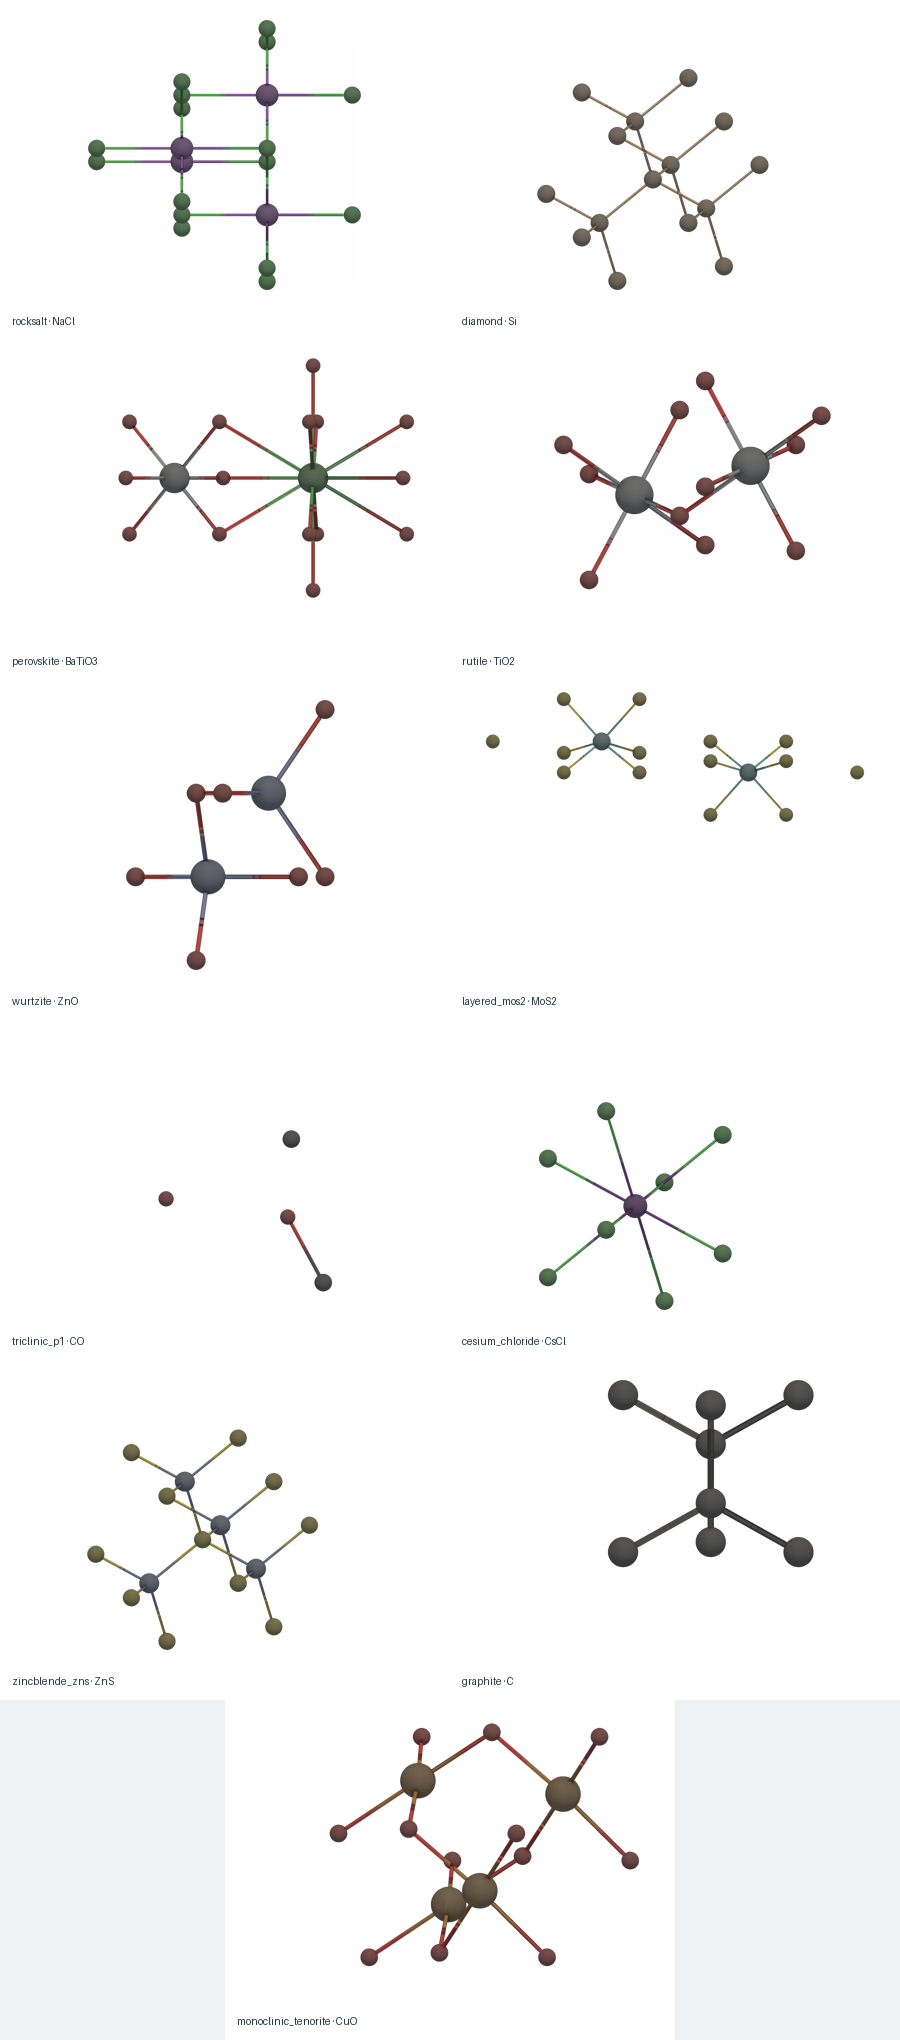
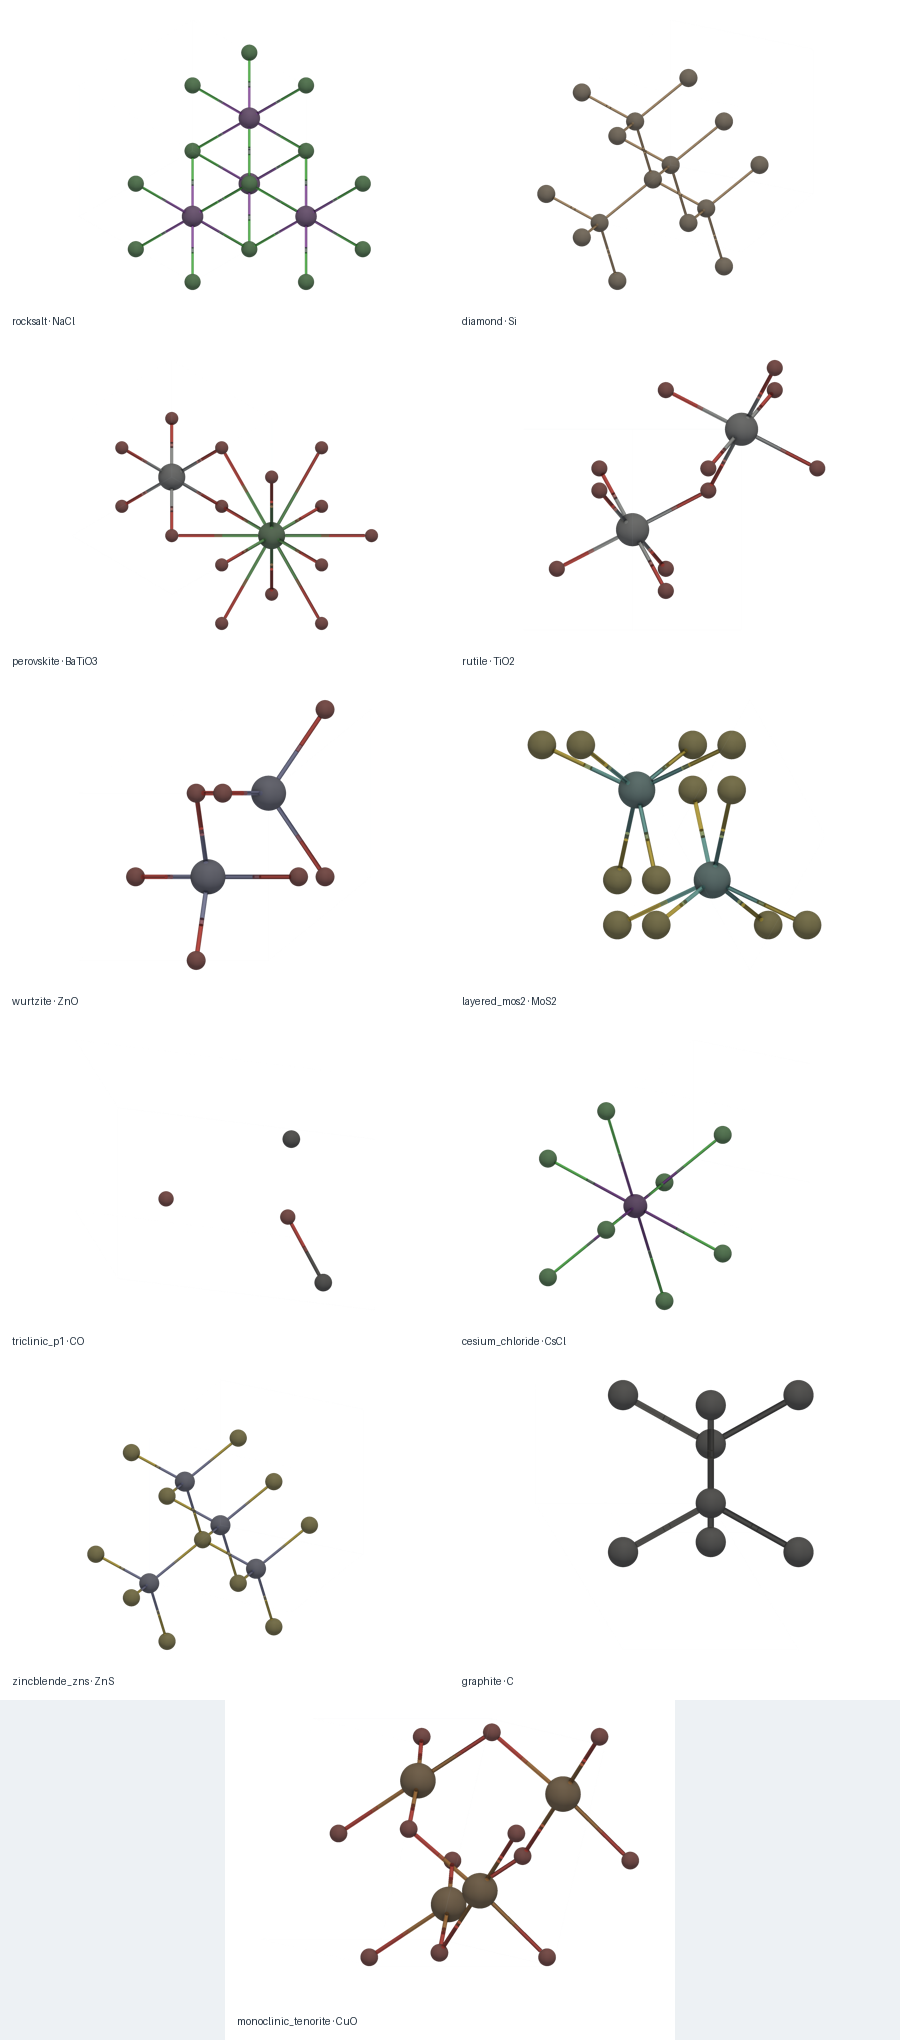
Fix periodic scene coordinates and auto-view overlap

diff --git a/crystalfig/scene/builder.py b/crystalfig/scene/builder.py
@@ -253,7 +253,8 @@ class SceneBuilder:
     ) -> Sphere:
         """Create a sphere for a site, optionally at a periodic image position."""
         site = structure.sites[site_index]
-        pos = site.cart_coords(structure.lattice) + structure.lattice.frac_to_cart(np.array(image_offset, dtype=float))
+        frac, _ = self._fold_to_unit_cell(site.frac_coords)
+        pos = structure.lattice.frac_to_cart(frac + np.asarray(image_offset, dtype=float))
         element = site.dominant_element
         color = self.palette.hex(element)
         radius = self._atom_radius(element, radius_factor)
@@ -344,12 +345,14 @@ class SceneBuilder:
 
         if mode == "connected":
             for bond in bonds:
-                if any(bond.jimage):
-                    images[(bond.j, bond.jimage)] = None
+                image = self._display_jimage(structure, bond.i, bond.j, bond.jimage)
+                if any(image):
+                    images[(bond.j, image)] = None
         elif mode == "polyhedra_complete":
             for bond in bonds:
-                if any(bond.jimage):
-                    images[(bond.j, bond.jimage)] = None
+                image = self._display_jimage(structure, bond.i, bond.j, bond.jimage)
+                if any(image):
+                    images[(bond.j, image)] = None
             for poly in polyhedra:
                 for meta in getattr(poly, "vertex_metadata", []):
                     offset = tuple(meta.get("image_offset", (0, 0, 0)))
@@ -378,6 +381,18 @@ class SceneBuilder:
         folded = frac - image
         return folded, tuple(image.tolist())
 
+    def _display_jimage(
+        self,
+        structure: CrystalStructure,
+        site_i: int,
+        site_j: int,
+        jimage: tuple[int, int, int],
+    ) -> tuple[int, int, int]:
+        """Translate a periodic bond image into the folded display cell."""
+        _, image_i = self._fold_to_unit_cell(structure.sites[site_i].frac_coords)
+        _, image_j = self._fold_to_unit_cell(structure.sites[site_j].frac_coords)
+        return tuple(jimage[axis] + image_j[axis] - image_i[axis] for axis in range(3))
+
     def _cell_complete_images(
         self,
         structure: CrystalStructure,
@@ -392,7 +407,7 @@ class SceneBuilder:
         images: dict[tuple[int, tuple[int, int, int]], None] = {}
         tol = 1e-6
         for i, site in enumerate(structure.sites):
-            frac = site.frac_coords
+            frac, _ = self._fold_to_unit_cell(site.frac_coords)
             ranges = []
             for f in frac:
                 f = float(f) % 1.0
@@ -420,20 +435,21 @@ class SceneBuilder:
         for bond_index, bond in enumerate(bonds):
             site_i = structure.sites[bond.i]
             site_j = structure.sites[bond.j]
-            start = site_i.cart_coords(structure.lattice)
+            image_offset = self._display_jimage(structure, bond.i, bond.j, bond.jimage)
+            frac_i, _ = self._fold_to_unit_cell(site_i.frac_coords)
+            frac_j, _ = self._fold_to_unit_cell(site_j.frac_coords)
+            start = structure.lattice.frac_to_cart(frac_i)
 
             # In cell_complete mode, only draw bonds whose partner lies inside or
             # on the boundary of the displayed [0,1]^3 cell.  This prevents bonds
             # from dangling at periodic images that have no displayed atom.
             if self.options.display_boundary == "cell_complete":
-                partner_frac = site_j.frac_coords + np.array(bond.jimage, dtype=float)
+                partner_frac = frac_j + np.array(image_offset, dtype=float)
                 if not all(-tol <= f <= 1.0 + tol for f in partner_frac):
                     continue
-                end = site_j.cart_coords(structure.lattice) + structure.lattice.frac_to_cart(np.array(bond.jimage))
-                image_offset = bond.jimage
+                end = structure.lattice.frac_to_cart(partner_frac)
             else:
-                end = site_j.cart_coords(structure.lattice) + structure.lattice.frac_to_cart(np.array(bond.jimage))
-                image_offset = bond.jimage
+                end = structure.lattice.frac_to_cart(frac_j + np.array(image_offset, dtype=float))
 
             color = self._bond_color(bond)
             width = self._bond_width(bond)
@@ -507,7 +523,8 @@ class SceneBuilder:
 
             for center_idx in centers:
                 center_site = structure.sites[center_idx]
-                center_pos = center_site.cart_coords(structure.lattice)
+                center_frac, _ = self._fold_to_unit_cell(center_site.frac_coords)
+                center_pos = structure.lattice.frac_to_cart(center_frac)
                 nbrs = adjacency.get(center_idx, [])
                 if not nbrs:
                     continue
@@ -515,11 +532,13 @@ class SceneBuilder:
                 vertex_indices = []
                 vertex_metadata = []
                 for j, jimage in nbrs:
-                    offset = np.array(jimage, dtype=float)
-                    vertex_frac = structure.sites[j].frac_coords + offset
+                    display_jimage = self._display_jimage(structure, center_idx, j, jimage)
+                    neighbor_frac, _ = self._fold_to_unit_cell(structure.sites[j].frac_coords)
+                    offset = np.array(display_jimage, dtype=float)
+                    vertex_frac = neighbor_frac + offset
                     vertex_positions.append(structure.lattice.frac_to_cart(vertex_frac))
                     vertex_indices.append(j)
-                    vertex_metadata.append({"site_index": j, "image_offset": jimage})
+                    vertex_metadata.append({"site_index": j, "image_offset": display_jimage})
                 if len(vertex_positions) < 4:
                     continue
                 try:
@@ -604,7 +623,8 @@ class SceneBuilder:
         arrows = []
         for site_idx, direction, color_key in (self.options.vectors or []):
             site = structure.sites[site_idx]
-            start = site.cart_coords(structure.lattice)
+            start, _ = self._fold_to_unit_cell(site.frac_coords)
+            start = structure.lattice.frac_to_cart(start)
             direction = np.asarray(direction, dtype=float)
             color = self.palette.hex(color_key) if color_key in self.palette.accents else color_key
             arrows.append(Arrow(
@@ -647,7 +667,7 @@ class SceneBuilder:
         for i in indices:
             site = structure.sites[i]
             spheres.append(Sphere(
-                position=site.cart_coords(structure.lattice),
+                position=structure.lattice.frac_to_cart(self._fold_to_unit_cell(site.frac_coords)[0]),
                 radius=self._atom_radius(site.dominant_element) * 1.2,
                 color=self.palette.hex("amber"),
                 opacity=0.4,
@@ -660,7 +680,7 @@ class SceneBuilder:
         for i in indices:
             site = structure.sites[i]
             spheres.append(Sphere(
-                position=site.cart_coords(structure.lattice),
+                position=structure.lattice.frac_to_cart(self._fold_to_unit_cell(site.frac_coords)[0]),
                 radius=self._atom_radius(site.dominant_element) * 1.1,
                 color=self.palette.hex("secondary"),
                 opacity=0.5,
@@ -687,7 +707,7 @@ class SceneBuilder:
                 if ann.site_index is None or ann.site_index >= len(structure.sites):
                     continue
                 site = structure.sites[ann.site_index]
-                pos = site.cart_coords(structure.lattice)
+                pos = structure.lattice.frac_to_cart(self._fold_to_unit_cell(site.frac_coords)[0])
                 texts.append(Text(
                     position=pos,
                     text=ann.text,

diff --git a/tests/test_scene.py b/tests/test_scene.py
@@ -3,7 +3,7 @@
 import numpy as np
 import pytest
 
-from crystalfig.examples.presets import perovskite_structure, rocksalt_structure
+from crystalfig.examples.presets import mos2_structure, perovskite_structure, rocksalt_structure
 from crystalfig.figure.builder import CrystalFigure
 from crystalfig.neighbors.strategies import CutoffStrategy
 from crystalfig.scene.camera import Camera
@@ -32,6 +32,50 @@ class TestCamera:
 
 
 class TestScene:
+    def test_periodically_equivalent_coordinates_render_in_the_display_cell(self):
+        structure = mos2_structure()
+        original_coords = structure.frac_coords.copy()
+        figure = (
+            CrystalFigure(structure)
+            .boundary_mode("connected")
+            .add_bonds("cutoff", cutoff=2.5)
+        )
+        scene = figure.build_scene()
+
+        atoms = scene.get_group("atoms").primitives
+        assert np.allclose(structure.frac_coords, original_coords)
+        atom_frac = np.array([structure.lattice.cart_to_frac(atom.position) for atom in atoms])
+        assert np.all((atom_frac >= 0.0) & (atom_frac < 1.0))
+
+        for bond in scene.get_group("bonds").primitives:
+            assert np.linalg.norm(bond.end - bond.start) == pytest.approx(bond.distance)
+
+        image_atoms = scene.get_group("image_atoms")
+        assert image_atoms is not None
+        for atom in image_atoms.primitives:
+            site = structure.sites[atom.metadata["site_index"]]
+            expected = site.frac_coords % 1.0 + np.asarray(atom.metadata["image_offset"])
+            assert np.allclose(structure.lattice.cart_to_frac(atom.position), expected)
+
+    def test_periodic_polyhedron_vertices_keep_neighbor_distances_after_folding(self):
+        structure = mos2_structure()
+        figure = CrystalFigure(structure).add_polyhedra("Mo", strategy="cutoff")
+        scene = figure.build_scene()
+        polyhedra = scene.get_group("polyhedra").primitives
+        assert polyhedra
+        bonds = CutoffStrategy(cutoff=2.5).get_bonds(structure)
+        for poly in polyhedra:
+            center = structure.lattice.frac_to_cart(
+                structure.frac_coords[poly.center_site] % 1.0
+            )
+            expected = [
+                bond.distance
+                for bond in bonds
+                if bond.i == poly.center_site or bond.j == poly.center_site
+            ]
+            actual = [np.linalg.norm(vertex - center) for vertex in poly.vertices]
+            assert np.sort(actual) == pytest.approx(np.sort(expected))
+
     def test_add_and_all_primitives(self):
         scene = Scene()
         scene.add(Sphere(position=np.array([0, 0, 0]), radius=0.2))

diff --git a/crystalfig/figure/builder.py b/crystalfig/figure/builder.py
@@ -2,6 +2,7 @@
 
 from __future__ import annotations
 
+from itertools import product
 from pathlib import Path
 
 import numpy as np
@@ -180,6 +181,20 @@ class CrystalFigure:
             directions.append(np.asarray(vector, dtype=float))
             labels.append(label)
 
+        for coefficients in product((-1, 0, 1), repeat=3):
+            if sum(value != 0 for value in coefficients) < 2:
+                continue
+            first_nonzero = next(value for value in coefficients if value)
+            if first_nonzero < 0:
+                continue
+            direction = np.asarray(coefficients, dtype=float) @ self.structure.lattice.matrix
+            if np.linalg.norm(direction) > 1e-8:
+                directions.append(direction)
+                direction_label = "".join(
+                    "+" if value > 0 else "-" if value < 0 else "0" for value in coefficients
+                )
+                labels.append(f"lattice_{direction_label}")
+
         geometry_points = []
         for primitive in scene.all_primitives():
             if getattr(primitive, "layer", "geometry") == "annotation":
@@ -236,7 +251,7 @@ class CrystalFigure:
                 spheres = [p for p in scene.all_primitives() if p.__class__.__name__ == "Sphere"]
                 projected = camera.project(np.asarray([p.position for p in spheres])) if spheres else np.empty((0, 2))
                 radii = [float(p.radius) for p in spheres]
-                overlaps = 0
+                overlapping_atoms: set[int] = set()
                 if len(spheres) > 1:
                     candidate_pairs = cKDTree(projected).query_pairs(
                         1.56 * max(radii), output_type="ndarray"
@@ -244,8 +259,9 @@ class CrystalFigure:
                     for i, j in candidate_pairs:
                         if np.linalg.norm(spheres[i].position - spheres[j].position) < 1e-8:
                             continue
-                        overlaps += np.linalg.norm(projected[i] - projected[j]) < 0.78 * (radii[i] + radii[j])
-                atom_overlap = overlaps / max(len(spheres), 1)
+                        if np.linalg.norm(projected[i] - projected[j]) < 0.78 * (radii[i] + radii[j]):
+                            overlapping_atoms.update((int(i), int(j)))
+                atom_overlap = len(overlapping_atoms) / max(len(spheres), 1)
                 bonds = [p for p in scene.all_primitives() if isinstance(p, Bond)]
                 bond_visibility = float(np.mean([
                     min(np.linalg.norm(camera.project(b.end) - camera.project(b.start)) / max(b.distance, 1e-9), 1.0)

diff --git a/tests/test_figure.py b/tests/test_figure.py
@@ -78,8 +78,15 @@ class TestCrystalFigure:
         assert reports == repeated
         assert reports[0]["score"] >= reports[-1]["score"]
         assert "atom_overlap_fraction" in reports[0]
+        assert all(0.0 <= report["atom_overlap_fraction"] <= 1.0 for report in reports)
         assert "bond_visibility" in reports[0]
         assert {report["roll_degrees"] for report in reports} == {0.0, 90.0}
+
+    def test_auto_view_adds_generic_lattice_directions_to_reduce_atom_overlap(self):
+        figure = CrystalFigure(rocksalt_structure(conventional=True)).publication()
+        report = figure.report_view_candidates(figure.build_scene())[0]
+        assert report["label"].startswith("lattice_")
+        assert report["atom_overlap_fraction"] < 0.5
 
     def test_auto_fit_recenters_final_supercell_geometry(self):
         fig = CrystalFigure(rocksalt_structure()).supercell((3, 1, 1)).view([1, 0, 0])
